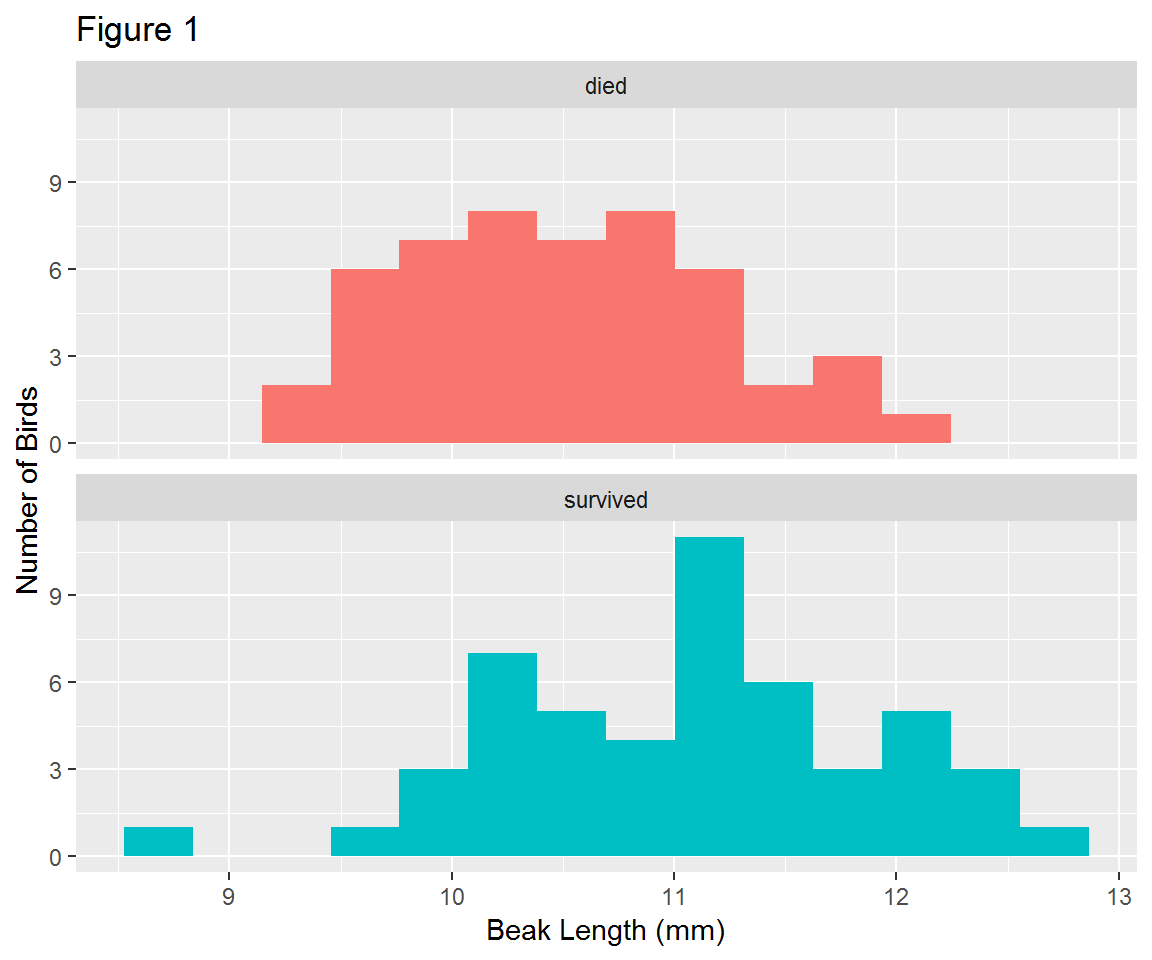
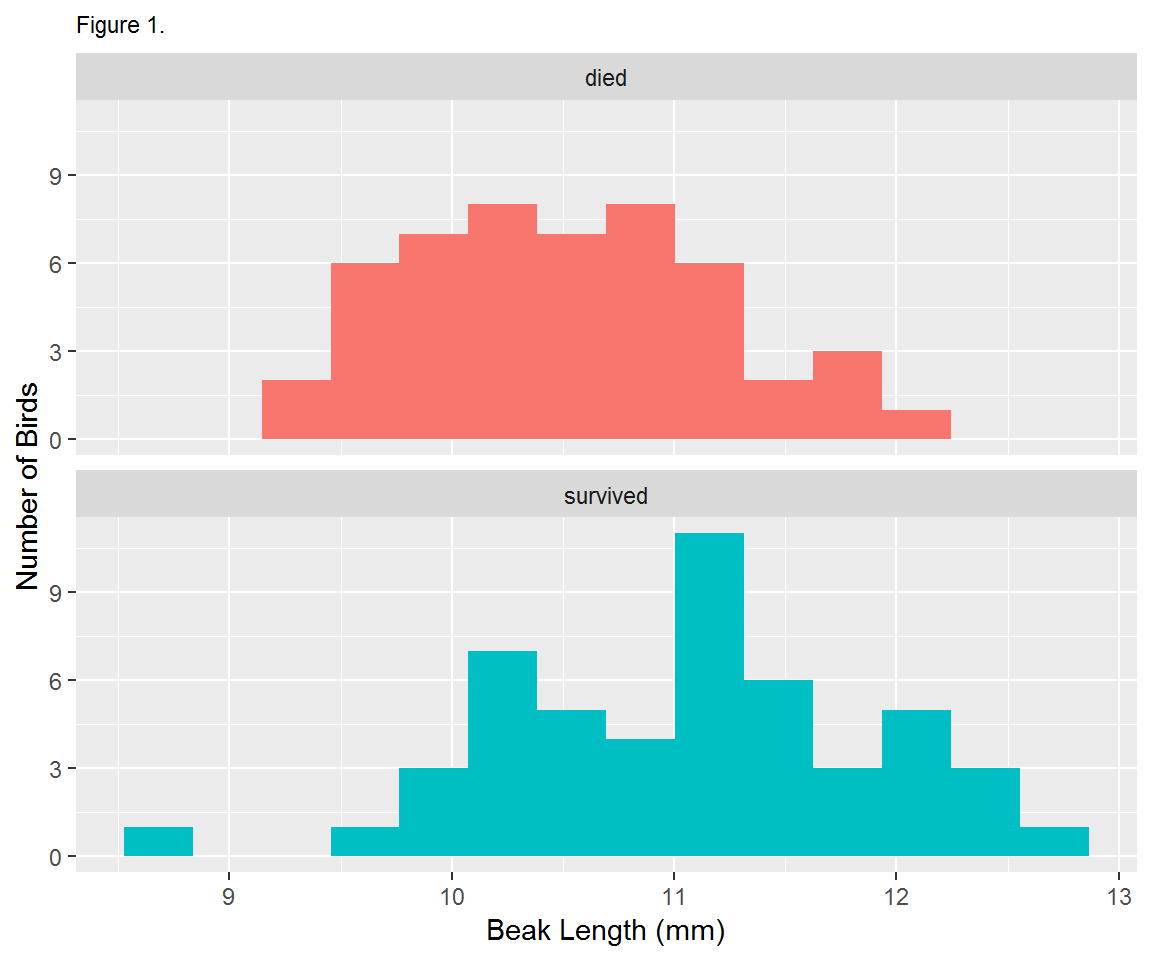
Implement figure titles consistently

diff --git a/lab1_beak_length_script.html b/lab1_beak_length_script.html
@@ -342,82 +342,86 @@ $(document).ready(function () {
 <a class="sourceLine" id="cb1-46" data-line-number="46"><span class="st">  </span><span class="kw">facet_wrap</span>(<span class="op">~</span><span class="st"> </span>outcome, <span class="dt">ncol =</span> <span class="dv">1</span>) <span class="op">+</span><span class="st">   </span><span class="co"># outcome is the grouping variable</span></a>
 <a class="sourceLine" id="cb1-47" data-line-number="47"><span class="st">  </span><span class="kw">guides</span>(<span class="dt">fill =</span> <span class="ot">FALSE</span>) <span class="op">+</span><span class="st">              </span><span class="co"># don&#39;t show a legend for fll color</span></a>
 <a class="sourceLine" id="cb1-48" data-line-number="48"><span class="st">  </span><span class="kw">labs</span>(</a>
-<a class="sourceLine" id="cb1-49" data-line-number="49">    <span class="dt">x =</span> <span class="st">&quot;Beak Length (mm)&quot;</span>,           <span class="co"># x-axis label</span></a>
-<a class="sourceLine" id="cb1-50" data-line-number="50">    <span class="dt">y =</span> <span class="st">&quot;Number of Birds&quot;</span>             <span class="co"># y-axis label</span></a>
-<a class="sourceLine" id="cb1-51" data-line-number="51">  )</a>
-<a class="sourceLine" id="cb1-52" data-line-number="52"></a>
-<a class="sourceLine" id="cb1-53" data-line-number="53"><span class="co"># save your most recent plot</span></a>
-<a class="sourceLine" id="cb1-54" data-line-number="54"><span class="kw">ggsave</span>(<span class="st">&quot;Beak Length Histogram.png&quot;</span>,   <span class="co"># you choose a name for the file</span></a>
-<a class="sourceLine" id="cb1-55" data-line-number="55">       <span class="dt">width =</span> <span class="fl">3.5</span>, <span class="dt">height =</span> <span class="fl">3.5</span>,     <span class="co"># dimensions of saved file</span></a>
-<a class="sourceLine" id="cb1-56" data-line-number="56">       <span class="dt">units =</span> <span class="st">&quot;in&quot;</span>)                  <span class="co"># units for the dimensions</span></a>
-<a class="sourceLine" id="cb1-57" data-line-number="57"></a>
-<a class="sourceLine" id="cb1-58" data-line-number="58"></a>
-<a class="sourceLine" id="cb1-59" data-line-number="59"><span class="co"># summarize ---------------------------------------------------------------</span></a>
+<a class="sourceLine" id="cb1-49" data-line-number="49">    <span class="dt">title =</span> <span class="st">&quot;Figure 1.&quot;</span>,              <span class="co"># title</span></a>
+<a class="sourceLine" id="cb1-50" data-line-number="50">    <span class="dt">x =</span> <span class="st">&quot;Beak Length (mm)&quot;</span>,           <span class="co"># x-axis label</span></a>
+<a class="sourceLine" id="cb1-51" data-line-number="51">    <span class="dt">y =</span> <span class="st">&quot;Number of Birds&quot;</span>             <span class="co"># y-axis label</span></a>
+<a class="sourceLine" id="cb1-52" data-line-number="52">  ) <span class="op">+</span></a>
+<a class="sourceLine" id="cb1-53" data-line-number="53"><span class="st">  </span><span class="kw">theme</span>(<span class="dt">plot.title =</span> <span class="kw">element_text</span>(<span class="dt">size =</span> <span class="kw">rel</span>(.<span class="dv">8</span>)))  <span class="co"># make title smaller</span></a>
+<a class="sourceLine" id="cb1-54" data-line-number="54"></a>
+<a class="sourceLine" id="cb1-55" data-line-number="55"><span class="co"># save your most recent plot</span></a>
+<a class="sourceLine" id="cb1-56" data-line-number="56"><span class="kw">ggsave</span>(<span class="st">&quot;Beak Length Histogram.png&quot;</span>,   <span class="co"># you choose a name for the file</span></a>
+<a class="sourceLine" id="cb1-57" data-line-number="57">       <span class="dt">width =</span> <span class="fl">3.5</span>, <span class="dt">height =</span> <span class="fl">3.5</span>,     <span class="co"># dimensions of saved file</span></a>
+<a class="sourceLine" id="cb1-58" data-line-number="58">       <span class="dt">units =</span> <span class="st">&quot;in&quot;</span>)                  <span class="co"># units for the dimensions</span></a>
+<a class="sourceLine" id="cb1-59" data-line-number="59"></a>
 <a class="sourceLine" id="cb1-60" data-line-number="60"></a>
-<a class="sourceLine" id="cb1-61" data-line-number="61"><span class="co"># summarize the dataset by outcome (survived vs. died)</span></a>
-<a class="sourceLine" id="cb1-62" data-line-number="62">beak_length_grouped_summary &lt;-<span class="st"> </span></a>
-<a class="sourceLine" id="cb1-63" data-line-number="63"><span class="st">  </span>finches <span class="op">%&gt;%</span><span class="st"> </span></a>
-<a class="sourceLine" id="cb1-64" data-line-number="64"><span class="st">  </span><span class="kw">group_by</span>(outcome) <span class="op">%&gt;%</span><span class="st"> </span></a>
-<a class="sourceLine" id="cb1-65" data-line-number="65"><span class="st">  </span><span class="kw">summarize</span>(<span class="dt">mean =</span> <span class="kw">mean</span>(beak_length),</a>
-<a class="sourceLine" id="cb1-66" data-line-number="66">            <span class="dt">sd =</span> <span class="kw">sd</span>(beak_length),</a>
-<a class="sourceLine" id="cb1-67" data-line-number="67">            <span class="dt">n =</span> <span class="kw">n</span>()) <span class="op">%&gt;%</span><span class="st"> </span></a>
-<a class="sourceLine" id="cb1-68" data-line-number="68"><span class="st">  </span><span class="kw">mutate</span>(<span class="dt">sem =</span> sd <span class="op">/</span><span class="st"> </span><span class="kw">sqrt</span>(n),</a>
-<a class="sourceLine" id="cb1-69" data-line-number="69">         <span class="dt">upper =</span> mean <span class="op">+</span><span class="st"> </span><span class="fl">1.96</span> <span class="op">*</span><span class="st"> </span>sem,</a>
-<a class="sourceLine" id="cb1-70" data-line-number="70">         <span class="dt">lower =</span> mean <span class="op">-</span><span class="st"> </span><span class="fl">1.96</span> <span class="op">*</span><span class="st"> </span>sem)</a>
-<a class="sourceLine" id="cb1-71" data-line-number="71"></a>
-<a class="sourceLine" id="cb1-72" data-line-number="72"><span class="co"># print the results in the console</span></a>
-<a class="sourceLine" id="cb1-73" data-line-number="73">beak_length_grouped_summary</a>
-<a class="sourceLine" id="cb1-74" data-line-number="74"></a>
-<a class="sourceLine" id="cb1-75" data-line-number="75"></a>
-<a class="sourceLine" id="cb1-76" data-line-number="76"><span class="co"># bar chart ---------------------------------------------------------------</span></a>
+<a class="sourceLine" id="cb1-61" data-line-number="61"><span class="co"># summarize ---------------------------------------------------------------</span></a>
+<a class="sourceLine" id="cb1-62" data-line-number="62"></a>
+<a class="sourceLine" id="cb1-63" data-line-number="63"><span class="co"># summarize the dataset by outcome (survived vs. died)</span></a>
+<a class="sourceLine" id="cb1-64" data-line-number="64">beak_length_grouped_summary &lt;-<span class="st"> </span></a>
+<a class="sourceLine" id="cb1-65" data-line-number="65"><span class="st">  </span>finches <span class="op">%&gt;%</span><span class="st"> </span></a>
+<a class="sourceLine" id="cb1-66" data-line-number="66"><span class="st">  </span><span class="kw">group_by</span>(outcome) <span class="op">%&gt;%</span><span class="st"> </span></a>
+<a class="sourceLine" id="cb1-67" data-line-number="67"><span class="st">  </span><span class="kw">summarize</span>(<span class="dt">mean =</span> <span class="kw">mean</span>(beak_length),</a>
+<a class="sourceLine" id="cb1-68" data-line-number="68">            <span class="dt">sd =</span> <span class="kw">sd</span>(beak_length),</a>
+<a class="sourceLine" id="cb1-69" data-line-number="69">            <span class="dt">n =</span> <span class="kw">n</span>()) <span class="op">%&gt;%</span><span class="st"> </span></a>
+<a class="sourceLine" id="cb1-70" data-line-number="70"><span class="st">  </span><span class="kw">mutate</span>(<span class="dt">sem =</span> sd <span class="op">/</span><span class="st"> </span><span class="kw">sqrt</span>(n),</a>
+<a class="sourceLine" id="cb1-71" data-line-number="71">         <span class="dt">upper =</span> mean <span class="op">+</span><span class="st"> </span><span class="fl">1.96</span> <span class="op">*</span><span class="st"> </span>sem,</a>
+<a class="sourceLine" id="cb1-72" data-line-number="72">         <span class="dt">lower =</span> mean <span class="op">-</span><span class="st"> </span><span class="fl">1.96</span> <span class="op">*</span><span class="st"> </span>sem)</a>
+<a class="sourceLine" id="cb1-73" data-line-number="73"></a>
+<a class="sourceLine" id="cb1-74" data-line-number="74"><span class="co"># print the results in the console</span></a>
+<a class="sourceLine" id="cb1-75" data-line-number="75">beak_length_grouped_summary</a>
+<a class="sourceLine" id="cb1-76" data-line-number="76"></a>
 <a class="sourceLine" id="cb1-77" data-line-number="77"></a>
-<a class="sourceLine" id="cb1-78" data-line-number="78"><span class="co"># bar chart of mean beak lengths</span></a>
-<a class="sourceLine" id="cb1-79" data-line-number="79"><span class="kw">ggplot</span>(</a>
-<a class="sourceLine" id="cb1-80" data-line-number="80">  <span class="dt">data =</span> beak_length_grouped_summary,   <span class="co"># dont use the original finches dataset</span></a>
-<a class="sourceLine" id="cb1-81" data-line-number="81">  <span class="dt">mapping =</span> <span class="kw">aes</span>(<span class="dt">x =</span> outcome,            <span class="co"># survival on the x axis</span></a>
-<a class="sourceLine" id="cb1-82" data-line-number="82">                <span class="dt">y =</span> mean,               <span class="co"># mean beak length on the y axis</span></a>
-<a class="sourceLine" id="cb1-83" data-line-number="83">                <span class="dt">fill =</span> outcome)         <span class="co"># make died/survived different colors</span></a>
-<a class="sourceLine" id="cb1-84" data-line-number="84">) <span class="op">+</span></a>
-<a class="sourceLine" id="cb1-85" data-line-number="85"><span class="st">  </span><span class="kw">geom_col</span>() <span class="op">+</span><span class="st">                          </span><span class="co"># add columns</span></a>
-<a class="sourceLine" id="cb1-86" data-line-number="86"><span class="st">  </span><span class="kw">geom_errorbar</span>(                        <span class="co"># add error bars</span></a>
-<a class="sourceLine" id="cb1-87" data-line-number="87">    <span class="dt">mapping =</span> <span class="kw">aes</span>(<span class="dt">ymin =</span> lower,         <span class="co">#   lower 95% confidence limit</span></a>
-<a class="sourceLine" id="cb1-88" data-line-number="88">                  <span class="dt">ymax =</span> upper),        <span class="co">#   upper 95% confidence limit</span></a>
-<a class="sourceLine" id="cb1-89" data-line-number="89">    <span class="dt">width =</span> <span class="fl">.3</span>                          <span class="co">#   width of horizontal part of bars</span></a>
-<a class="sourceLine" id="cb1-90" data-line-number="90">  ) <span class="op">+</span></a>
-<a class="sourceLine" id="cb1-91" data-line-number="91"><span class="st">  </span><span class="kw">guides</span>(<span class="dt">fill =</span> <span class="ot">FALSE</span>) <span class="op">+</span><span class="st">                </span><span class="co"># don&#39;t show a legend for fll color</span></a>
-<a class="sourceLine" id="cb1-92" data-line-number="92"><span class="st">  </span><span class="kw">labs</span>(</a>
-<a class="sourceLine" id="cb1-93" data-line-number="93">    <span class="dt">x =</span> <span class="st">&quot;Survival Outcome&quot;</span>,             <span class="co"># x-axis label</span></a>
-<a class="sourceLine" id="cb1-94" data-line-number="94">    <span class="dt">y =</span> <span class="st">&quot;Beak Length (mm)&quot;</span>              <span class="co"># y-axis label</span></a>
-<a class="sourceLine" id="cb1-95" data-line-number="95">  )</a>
-<a class="sourceLine" id="cb1-96" data-line-number="96"></a>
-<a class="sourceLine" id="cb1-97" data-line-number="97"><span class="co"># save the beak length bar chart</span></a>
-<a class="sourceLine" id="cb1-98" data-line-number="98"><span class="co"># note that the dimensions are different from the histograms above</span></a>
-<a class="sourceLine" id="cb1-99" data-line-number="99"><span class="kw">ggsave</span>(<span class="st">&quot;Beak Length Bar Chart.png&quot;</span>, </a>
-<a class="sourceLine" id="cb1-100" data-line-number="100">       <span class="dt">width =</span> <span class="fl">2.5</span>, <span class="dt">height =</span> <span class="fl">3.5</span>, <span class="dt">units =</span> <span class="st">&quot;in&quot;</span>)</a>
-<a class="sourceLine" id="cb1-101" data-line-number="101"></a>
-<a class="sourceLine" id="cb1-102" data-line-number="102"></a>
-<a class="sourceLine" id="cb1-103" data-line-number="103"><span class="co"># t-test ------------------------------------------------------------------</span></a>
-<a class="sourceLine" id="cb1-104" data-line-number="104"></a>
-<a class="sourceLine" id="cb1-105" data-line-number="105"><span class="co"># get a vector of beak lengths for birds that died</span></a>
-<a class="sourceLine" id="cb1-106" data-line-number="106">beak_length_died &lt;-</a>
-<a class="sourceLine" id="cb1-107" data-line-number="107"><span class="st">  </span>finches <span class="op">%&gt;%</span><span class="st">                     </span><span class="co"># start with finches dataset</span></a>
-<a class="sourceLine" id="cb1-108" data-line-number="108"><span class="st">  </span><span class="kw">filter</span>(outcome <span class="op">==</span><span class="st"> &quot;died&quot;</span>) <span class="op">%&gt;%</span><span class="st">   </span><span class="co"># only include rows w/ outcome=died</span></a>
-<a class="sourceLine" id="cb1-109" data-line-number="109"><span class="st">  </span><span class="kw">pull</span>(beak_length)               <span class="co"># extract the beak_length column</span></a>
-<a class="sourceLine" id="cb1-110" data-line-number="110"></a>
-<a class="sourceLine" id="cb1-111" data-line-number="111"><span class="co"># print the new object in the console... it is a vector</span></a>
-<a class="sourceLine" id="cb1-112" data-line-number="112">beak_length_died</a>
-<a class="sourceLine" id="cb1-113" data-line-number="113"></a>
-<a class="sourceLine" id="cb1-114" data-line-number="114"><span class="co"># get a vector of beak lengths for birds that survived</span></a>
-<a class="sourceLine" id="cb1-115" data-line-number="115">beak_length_survived &lt;-</a>
-<a class="sourceLine" id="cb1-116" data-line-number="116"><span class="st">  </span>finches <span class="op">%&gt;%</span><span class="st"> </span></a>
-<a class="sourceLine" id="cb1-117" data-line-number="117"><span class="st">  </span><span class="kw">filter</span>(outcome <span class="op">==</span><span class="st"> &quot;survived&quot;</span>) <span class="op">%&gt;%</span><span class="st"> </span></a>
-<a class="sourceLine" id="cb1-118" data-line-number="118"><span class="st">  </span><span class="kw">pull</span>(beak_length)</a>
-<a class="sourceLine" id="cb1-119" data-line-number="119"></a>
-<a class="sourceLine" id="cb1-120" data-line-number="120"><span class="co"># print the results in the console</span></a>
-<a class="sourceLine" id="cb1-121" data-line-number="121">beak_length_survived</a>
-<a class="sourceLine" id="cb1-122" data-line-number="122"></a>
-<a class="sourceLine" id="cb1-123" data-line-number="123"><span class="co"># perform a two-sample t-test assuming unequal variances</span></a>
-<a class="sourceLine" id="cb1-124" data-line-number="124"><span class="kw">t.test</span>(beak_length_died, beak_length_survived)</a></code></pre></div>
+<a class="sourceLine" id="cb1-78" data-line-number="78"><span class="co"># bar chart ---------------------------------------------------------------</span></a>
+<a class="sourceLine" id="cb1-79" data-line-number="79"></a>
+<a class="sourceLine" id="cb1-80" data-line-number="80"><span class="co"># bar chart of mean beak lengths</span></a>
+<a class="sourceLine" id="cb1-81" data-line-number="81"><span class="kw">ggplot</span>(</a>
+<a class="sourceLine" id="cb1-82" data-line-number="82">  <span class="dt">data =</span> beak_length_grouped_summary,   <span class="co"># dont use the original finches dataset</span></a>
+<a class="sourceLine" id="cb1-83" data-line-number="83">  <span class="dt">mapping =</span> <span class="kw">aes</span>(<span class="dt">x =</span> outcome,            <span class="co"># survival on the x axis</span></a>
+<a class="sourceLine" id="cb1-84" data-line-number="84">                <span class="dt">y =</span> mean,               <span class="co"># mean beak length on the y axis</span></a>
+<a class="sourceLine" id="cb1-85" data-line-number="85">                <span class="dt">fill =</span> outcome)         <span class="co"># make died/survived different colors</span></a>
+<a class="sourceLine" id="cb1-86" data-line-number="86">) <span class="op">+</span></a>
+<a class="sourceLine" id="cb1-87" data-line-number="87"><span class="st">  </span><span class="kw">geom_col</span>() <span class="op">+</span><span class="st">                          </span><span class="co"># add columns</span></a>
+<a class="sourceLine" id="cb1-88" data-line-number="88"><span class="st">  </span><span class="kw">geom_errorbar</span>(                        <span class="co"># add error bars</span></a>
+<a class="sourceLine" id="cb1-89" data-line-number="89">    <span class="dt">mapping =</span> <span class="kw">aes</span>(<span class="dt">ymin =</span> lower,         <span class="co">#   lower 95% confidence limit</span></a>
+<a class="sourceLine" id="cb1-90" data-line-number="90">                  <span class="dt">ymax =</span> upper),        <span class="co">#   upper 95% confidence limit</span></a>
+<a class="sourceLine" id="cb1-91" data-line-number="91">    <span class="dt">width =</span> <span class="fl">.3</span>                          <span class="co">#   width of horizontal part of bars</span></a>
+<a class="sourceLine" id="cb1-92" data-line-number="92">  ) <span class="op">+</span></a>
+<a class="sourceLine" id="cb1-93" data-line-number="93"><span class="st">  </span><span class="kw">guides</span>(<span class="dt">fill =</span> <span class="ot">FALSE</span>) <span class="op">+</span><span class="st">                </span><span class="co"># don&#39;t show a legend for fll color</span></a>
+<a class="sourceLine" id="cb1-94" data-line-number="94"><span class="st">  </span><span class="kw">labs</span>(</a>
+<a class="sourceLine" id="cb1-95" data-line-number="95">    <span class="dt">title =</span> <span class="st">&quot;Figure 2.&quot;</span>,                <span class="co"># title</span></a>
+<a class="sourceLine" id="cb1-96" data-line-number="96">    <span class="dt">x =</span> <span class="st">&quot;Survival Outcome&quot;</span>,             <span class="co"># x-axis label</span></a>
+<a class="sourceLine" id="cb1-97" data-line-number="97">    <span class="dt">y =</span> <span class="st">&quot;Beak Length (mm)&quot;</span>              <span class="co"># y-axis label</span></a>
+<a class="sourceLine" id="cb1-98" data-line-number="98">  ) <span class="op">+</span></a>
+<a class="sourceLine" id="cb1-99" data-line-number="99"><span class="st">  </span><span class="kw">theme</span>(<span class="dt">plot.title =</span> <span class="kw">element_text</span>(<span class="dt">size =</span> <span class="kw">rel</span>(.<span class="dv">8</span>)))  <span class="co"># make title smaller</span></a>
+<a class="sourceLine" id="cb1-100" data-line-number="100"></a>
+<a class="sourceLine" id="cb1-101" data-line-number="101"><span class="co"># save the beak length bar chart</span></a>
+<a class="sourceLine" id="cb1-102" data-line-number="102"><span class="co"># note that the dimensions are different from the histograms above</span></a>
+<a class="sourceLine" id="cb1-103" data-line-number="103"><span class="kw">ggsave</span>(<span class="st">&quot;Beak Length Bar Chart.png&quot;</span>, </a>
+<a class="sourceLine" id="cb1-104" data-line-number="104">       <span class="dt">width =</span> <span class="fl">2.5</span>, <span class="dt">height =</span> <span class="fl">3.5</span>, <span class="dt">units =</span> <span class="st">&quot;in&quot;</span>)</a>
+<a class="sourceLine" id="cb1-105" data-line-number="105"></a>
+<a class="sourceLine" id="cb1-106" data-line-number="106"></a>
+<a class="sourceLine" id="cb1-107" data-line-number="107"><span class="co"># t-test ------------------------------------------------------------------</span></a>
+<a class="sourceLine" id="cb1-108" data-line-number="108"></a>
+<a class="sourceLine" id="cb1-109" data-line-number="109"><span class="co"># get a vector of beak lengths for birds that died</span></a>
+<a class="sourceLine" id="cb1-110" data-line-number="110">beak_length_died &lt;-</a>
+<a class="sourceLine" id="cb1-111" data-line-number="111"><span class="st">  </span>finches <span class="op">%&gt;%</span><span class="st">                     </span><span class="co"># start with finches dataset</span></a>
+<a class="sourceLine" id="cb1-112" data-line-number="112"><span class="st">  </span><span class="kw">filter</span>(outcome <span class="op">==</span><span class="st"> &quot;died&quot;</span>) <span class="op">%&gt;%</span><span class="st">   </span><span class="co"># only include rows w/ outcome=died</span></a>
+<a class="sourceLine" id="cb1-113" data-line-number="113"><span class="st">  </span><span class="kw">pull</span>(beak_length)               <span class="co"># extract the beak_length column</span></a>
+<a class="sourceLine" id="cb1-114" data-line-number="114"></a>
+<a class="sourceLine" id="cb1-115" data-line-number="115"><span class="co"># print the new object in the console... it is a vector</span></a>
+<a class="sourceLine" id="cb1-116" data-line-number="116">beak_length_died</a>
+<a class="sourceLine" id="cb1-117" data-line-number="117"></a>
+<a class="sourceLine" id="cb1-118" data-line-number="118"><span class="co"># get a vector of beak lengths for birds that survived</span></a>
+<a class="sourceLine" id="cb1-119" data-line-number="119">beak_length_survived &lt;-</a>
+<a class="sourceLine" id="cb1-120" data-line-number="120"><span class="st">  </span>finches <span class="op">%&gt;%</span><span class="st"> </span></a>
+<a class="sourceLine" id="cb1-121" data-line-number="121"><span class="st">  </span><span class="kw">filter</span>(outcome <span class="op">==</span><span class="st"> &quot;survived&quot;</span>) <span class="op">%&gt;%</span><span class="st"> </span></a>
+<a class="sourceLine" id="cb1-122" data-line-number="122"><span class="st">  </span><span class="kw">pull</span>(beak_length)</a>
+<a class="sourceLine" id="cb1-123" data-line-number="123"></a>
+<a class="sourceLine" id="cb1-124" data-line-number="124"><span class="co"># print the results in the console</span></a>
+<a class="sourceLine" id="cb1-125" data-line-number="125">beak_length_survived</a>
+<a class="sourceLine" id="cb1-126" data-line-number="126"></a>
+<a class="sourceLine" id="cb1-127" data-line-number="127"><span class="co"># perform a two-sample t-test assuming unequal variances</span></a>
+<a class="sourceLine" id="cb1-128" data-line-number="128"><span class="kw">t.test</span>(beak_length_died, beak_length_survived)</a></code></pre></div>
 
 <div class="footer">
   <p>Copyright &copy; 2018 Chris Merkord. All rights reserved.</p>

diff --git a/lab1_3_finch.html b/lab1_3_finch.html
@@ -495,10 +495,11 @@ To look at an object you have just created, print it to the console window by <s
 <a class="sourceLine" id="cb10-8" data-line-number="8"><span class="st">  </span><span class="kw">facet_wrap</span>(<span class="op">~</span><span class="st"> </span>outcome, <span class="dt">ncol =</span> <span class="dv">1</span>) <span class="op">+</span><span class="st">   </span><span class="co"># outcome is the grouping variable</span></a>
 <a class="sourceLine" id="cb10-9" data-line-number="9"><span class="st">  </span><span class="kw">guides</span>(<span class="dt">fill =</span> <span class="ot">FALSE</span>) <span class="op">+</span><span class="st">              </span><span class="co"># don&#39;t show a legend for fll color</span></a>
 <a class="sourceLine" id="cb10-10" data-line-number="10"><span class="st">  </span><span class="kw">labs</span>(</a>
-<a class="sourceLine" id="cb10-11" data-line-number="11">    <span class="dt">title =</span> <span class="st">&quot;Figure 1&quot;</span>,               <span class="co"># title</span></a>
+<a class="sourceLine" id="cb10-11" data-line-number="11">    <span class="dt">title =</span> <span class="st">&quot;Figure 1.&quot;</span>,              <span class="co"># title</span></a>
 <a class="sourceLine" id="cb10-12" data-line-number="12">    <span class="dt">x =</span> <span class="st">&quot;Beak Length (mm)&quot;</span>,           <span class="co"># x-axis label</span></a>
 <a class="sourceLine" id="cb10-13" data-line-number="13">    <span class="dt">y =</span> <span class="st">&quot;Number of Birds&quot;</span>             <span class="co"># y-axis label</span></a>
-<a class="sourceLine" id="cb10-14" data-line-number="14">  )</a></code></pre></div>
+<a class="sourceLine" id="cb10-14" data-line-number="14">  ) <span class="op">+</span></a>
+<a class="sourceLine" id="cb10-15" data-line-number="15"><span class="st">  </span><span class="kw">theme</span>(<span class="dt">plot.title =</span> <span class="kw">element_text</span>(<span class="dt">size =</span> <span class="kw">rel</span>(.<span class="dv">8</span>)))  <span class="co"># make title smaller</span></a></code></pre></div>
 <p><img src="lab1_3_finch_files/figure-html/grouped-histogram-labels-1.png" width="576" style="display: block; margin: auto;" /></p>
 <p>When sharing your figure with others, for example in a report or peer-reviewed journal article, you should always include a figure legend.</p>
 <p>A good figure legend for this histogram would be:</p>
@@ -574,10 +575,11 @@ Figure 1. <strong>Distribution of beak lengths among medium ground finches (<i>G
 <a class="sourceLine" id="cb16-15" data-line-number="15">  ) <span class="op">+</span></a>
 <a class="sourceLine" id="cb16-16" data-line-number="16"><span class="st">  </span><span class="kw">guides</span>(<span class="dt">fill =</span> <span class="ot">FALSE</span>) <span class="op">+</span><span class="st">                </span><span class="co"># don&#39;t show a legend for fll color</span></a>
 <a class="sourceLine" id="cb16-17" data-line-number="17"><span class="st">  </span><span class="kw">labs</span>(</a>
-<a class="sourceLine" id="cb16-18" data-line-number="18">    <span class="dt">title =</span> <span class="st">&quot;Figure 2&quot;</span>,                 <span class="co"># title</span></a>
+<a class="sourceLine" id="cb16-18" data-line-number="18">    <span class="dt">title =</span> <span class="st">&quot;Figure 2.&quot;</span>,                <span class="co"># title</span></a>
 <a class="sourceLine" id="cb16-19" data-line-number="19">    <span class="dt">x =</span> <span class="st">&quot;Survival Outcome&quot;</span>,             <span class="co"># x-axis label</span></a>
 <a class="sourceLine" id="cb16-20" data-line-number="20">    <span class="dt">y =</span> <span class="st">&quot;Beak Length (mm)&quot;</span>              <span class="co"># y-axis label</span></a>
-<a class="sourceLine" id="cb16-21" data-line-number="21">  )</a></code></pre></div>
+<a class="sourceLine" id="cb16-21" data-line-number="21">  ) <span class="op">+</span></a>
+<a class="sourceLine" id="cb16-22" data-line-number="22"><span class="st">  </span><span class="kw">theme</span>(<span class="dt">plot.title =</span> <span class="kw">element_text</span>(<span class="dt">size =</span> <span class="kw">rel</span>(.<span class="dv">8</span>)))  <span class="co"># make title smaller</span></a></code></pre></div>
 <p><img src="lab1_3_finch_files/figure-html/bar-chart-1.png" width="288" style="display: block; margin: auto;" /></p>
 <p>A good figure legend for this figure would be:</p>
 <blockquote class="text-info">
